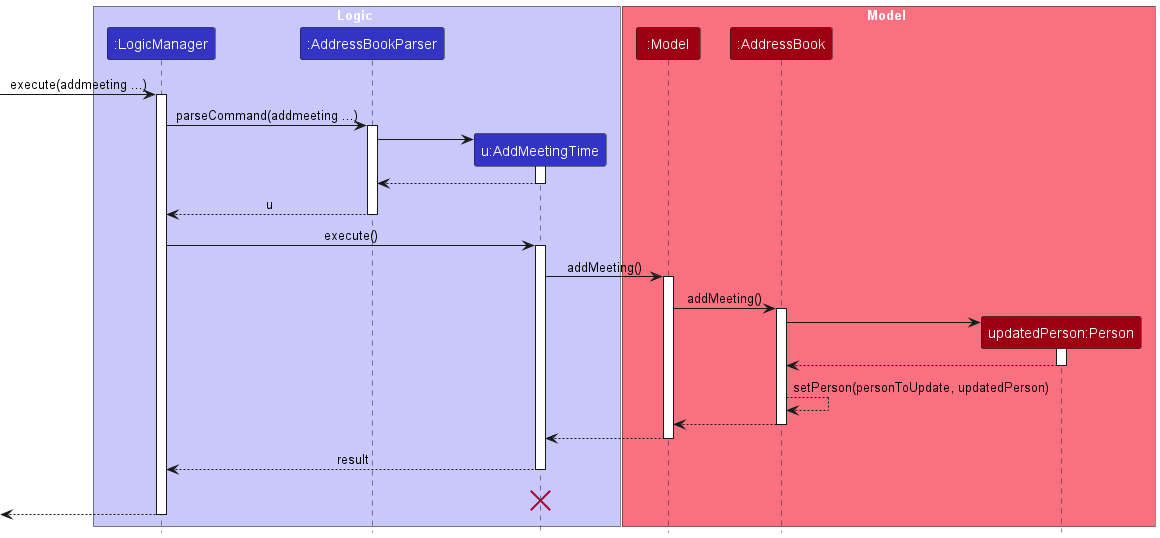
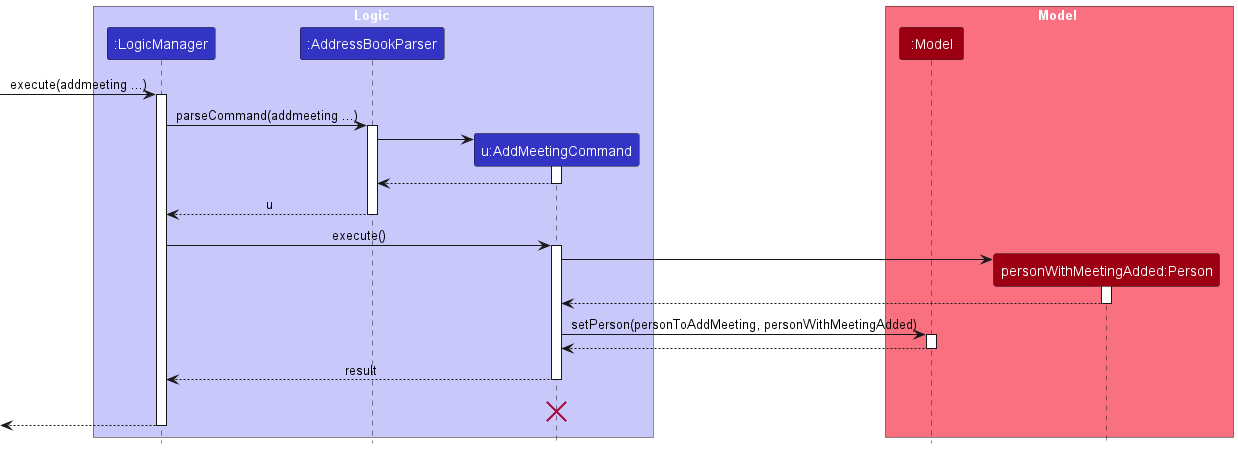
Update User stories, AddClient/Lead, AddMeetingTime

Changed region(s): [[0.0, 0.0, 1.0, 0.9978]]

diff --git a/docs/DeveloperGuide.md b/docs/DeveloperGuide.md
@@ -168,99 +168,6 @@ Step 3: The user executes a `view 1` command to view the 1st person in the addre
 The following sequence diagram shows how the View Command works:
 <img src="diagrams/ViewSequenceDiagram.png" alt= "ViewSequenceDiagram"/>
 
-### \[Proposed\] Undo/redo feature
-
-#### Proposed Implementation
-
-The proposed undo/redo mechanism is facilitated by `VersionedAddressBook`. It extends `AddressBook` with an undo/redo history, stored internally as an `addressBookStateList` and `currentStatePointer`. Additionally, it implements the following operations:
-
-* `VersionedAddressBook#commit()` — Saves the current address book state in its history.
-* `VersionedAddressBook#undo()` — Restores the previous address book state from its history.
-* `VersionedAddressBook#redo()` — Restores a previously undone address book state from its history.
-
-These operations are exposed in the `Model` interface as `Model#commitAddressBook()`, `Model#undoAddressBook()` and `Model#redoAddressBook()` respectively.
-
-Given below is an example usage scenario and how the undo/redo mechanism behaves at each step.
-
-Step 1. The user launches the application for the first time. The `VersionedAddressBook` will be initialized with the initial address book state, and the `currentStatePointer` pointing to that single address book state.
-
-<img src="diagrams/UndoRedoState0.png" alt="UndoRedoState0" />
-
-Step 2. The user executes `delete 5` command to delete the 5th person in the address book. The `delete` command calls `Model#commitAddressBook()`, causing the modified state of the address book after the `delete 5` command executes to be saved in the `addressBookStateList`, and the `currentStatePointer` is shifted to the newly inserted address book state.
-
-<img src="diagrams/UndoRedoState1.png" alt="UndoRedoState1" />
-
-Step 3. The user executes `add n/David …` to add a new person. The `add` command also calls `Model#commitAddressBook()`, causing another modified address book state to be saved into the `addressBookStateList`.
-
-<img src="diagrams/UndoRedoState2.png" alt="UndoRedoState2" />
-
-<box type="info" seamless>
-
-**Note:** If a command fails its execution, it will not call `Model#commitAddressBook()`, so the address book state will not be saved into the `addressBookStateList`.
-
-</box>
-
-Step 4. The user now decides that adding the person was a mistake, and decides to undo that action by executing the `undo` command. The `undo` command will call `Model#undoAddressBook()`, which will shift the `currentStatePointer` once to the left, pointing it to the previous address book state, and restores the address book to that state.
-
-<img src="diagrams/UndoRedoState3.png" alt="UndoRedoState3" />
-
-
-<box type="info" seamless>
-
-**Note:** If the `currentStatePointer` is at index 0, pointing to the initial AddressBook state, then there are no previous AddressBook states to restore. The `undo` command uses `Model#canUndoAddressBook()` to check if this is the case. If so, it will return an error to the user rather
-than attempting to perform the undo.
-
-</box>
-
-The following sequence diagram shows how the undo operation works:
-
-<img src="diagrams/UndoSequenceDiagram.png" alt="UndoSequenceDiagram" />
-
-<box type="info" seamless>
-
-**Note:** The lifeline for `UndoCommand` should end at the destroy marker (X) but due to a limitation of PlantUML, the lifeline reaches the end of diagram.
-
-</box>
-
-The `redo` command does the opposite — it calls `Model#redoAddressBook()`, which shifts the `currentStatePointer` once to the right, pointing to the previously undone state, and restores the address book to that state.
-
-<box type="info" seamless>
-
-**Note:** If the `currentStatePointer` is at index `addressBookStateList.size() - 1`, pointing to the latest address book state, then there are no undone AddressBook states to restore. The `redo` command uses `Model#canRedoAddressBook()` to check if this is the case. If so, it will return an error to the user rather than attempting to perform the redo.
-
-</box>
-
-Step 5. The user then decides to execute the command `list`. Commands that do not modify the address book, such as `list`, will usually not call `Model#commitAddressBook()`, `Model#undoAddressBook()` or `Model#redoAddressBook()`. Thus, the `addressBookStateList` remains unchanged.
-
-<img src="diagrams/UndoRedoState4.png" alt="UndoRedoState4" />
-
-Step 6. The user executes `clear`, which calls `Model#commitAddressBook()`. Since the `currentStatePointer` is not pointing at the end of the `addressBookStateList`, all address book states after the `currentStatePointer` will be purged. Reason: It no longer makes sense to redo the `add n/David …` command. This is the behavior that most modern desktop applications follow.
-
-<img src="diagrams/UndoRedoState5.png" alt="UndoRedoState5" />
-
-The following activity diagram summarizes what happens when a user executes a new command:
-
-<img src="diagrams/CommitActivityDiagram.png" width="250" />
-
-#### Design considerations:
-
-**Aspect: How undo & redo executes:**
-
-* **Alternative 1 (current choice):** Saves the entire address book.
-    * Pros: Easy to implement.
-    * Cons: May have performance issues in terms of memory usage.
-
-* **Alternative 2:** Individual command knows how to undo/redo by
-  itself.
-    * Pros: Will use less memory (e.g. for `delete`, just save the person being deleted).
-    * Cons: We must ensure that the implementation of each individual command are correct.
-
-_{more aspects and alternatives to be added}_
-
-### \[Proposed\] Data archiving
-
-_{Explain here how the data archiving feature will be implemented}_
-
 ### Addclient/Addlead feature
 
 #### Implementation
@@ -269,7 +176,7 @@ The `Client` and `Lead` model extends from `Person`.
 The `Client` and `Lead` model has a name, address, phone number, email field which is compulsory, as well as a meeting time and tags field which are optional.
 The `Lead` model has an additional compulsory field called Key Milestone.
 
-Given below is an example usage scenario and how addclient and addlead behaves at each step.
+Given below is an example usage scenario and how `addclient` and `addlead` behaves at each step.
 
 Step 1. The user launches the application for the first time. The `AddressBook` will be initialized.
 
@@ -278,43 +185,50 @@ Step 1. The user launches the application for the first time. The `AddressBook` 
     <p>Before any commands</p>
 </div>
 
-Step 2a - addclient. The user executes `addclient n/John Doe...` command add a person named John Doe into the AddressBook. The `addclient` command calls `Model#addClient()`, causing the address book to be updated.
+Step 2a - `addclient`. The user executes `addclient n/John Doe...` command add a person named John Doe into the AddressBook. The `addclient` command calls `Model#addClient()`, causing the address book to be updated.
 
 <div align="center">
-    <img src="images/addclient.png" alt="after addclient command" width="500" />
+    <img src="images/afterusingaddclient.png" alt="after addclient command" width="500" />
     <p>After addclient command</p>
 </div>
 
-Step 2b - addlead. The user executes `addlead n/John Doe...` command add a person named John Doe into the AddressBook. The `addlead` command calls `Model#addLead()`, causing the address book to be updated.
+Step 2b - `addlead`. The user executes `addlead n/John Doe...` command add a person named John Doe into the AddressBook. The `addlead` command calls `Model#addLead()`, causing the address book to be updated.
 
 <div align="center">
-    <img src="images/addlead.png" alt="after addlead command" width="500" />
+    <img src="images/afterusingaddlead.png" alt="after addlead command" width="500" />
     <p>After addlead command</p>
 </div>
 
-The following sequence diagram shows how the addclient operation works (Note that `addlead` works in the same way but calls `Model#addLead()` instead):
+The following sequence diagram shows how the `addclient` operation works (Note that `addlead` works in the same way but calls `Model#addLead()` instead):
+<div align="center">
+    <img src="diagrams/AddClientSequenceDiagram.png" width="500"/>
+</div>
 
-<img src="diagrams/AddClientSequenceDiagram.png" width="500" />
-
-The following activity diagram shows what happens when a user executes a new command:
-
-<img src="diagrams/AddClientActivityDiagram.png" width="500" />
+The following activity diagram shows what happens when a user executes a new `addclient` command:
+<div align="center">
+    <img src="diagrams/AddClientActivityDiagram.png" width="500"/>
+</div>
 
 ### Add Meeting Time feature
 
 #### Implementation
 
-The user can specify a meeting time when executing `addclient` or `addlead` command with the `m/` flag.
-Alternatively, the user can enter the `addmeeting` command to add a meeting time to an existing client or lead.
-The `addmeeting` command takes in the index of the client or lead, and the meeting time in `dd/MM/yyyy HH:mm` format, e.g. `24/10/2023 12:00`.
+The user can specify a meeting time when executing `addclient` or `addlead` command with the `m/` flag or enter the `addmeeting` command to add a meeting time to an existing client or lead.
+The `addmeeting` command takes in the index of the client or lead, and the meeting time in `dd/MM/yyyy HH:mm` format (e.g. `addmeeting 1 12/12/2023 12:00`).
+The `AddMeetingCommand` class facilitates this by copying the person (client/lead) based on the index given, and creates a new person with the meeting time added.
+The `AddMeetingCommand` class then calls `Model#setPerson()` to update the address book with the new person.
 
-The following sequence diagram shows how the addMeeting operation works:
+The following sequence diagram shows how the `addmeeting ...` operation works:
 
-<img src="diagrams/AddMeetingTimeSequenceDiagram.png" width="500" />
+<div align="center">
+    <img src="diagrams/AddMeetingTimeSequenceDiagram.png" width="700"/>
+</div>
 
-The following activity diagram shows what happens when a user executes the addMeeting operation:
+The following activity diagram shows the workflow of the execution of the `addmeeting ...` command:
 
-<img src="diagrams/AddMeetingTimeActivityDiagram.png" width="500" />
+<div align="center">
+    <img src="diagrams/AddMeetingTimeActivityDiagram.png" width="700" />
+</div>
 
 ### \[Proposed\] Sort Meeting Time feature
 
@@ -401,15 +315,20 @@ Priorities: High (must have) - `* * *`, Medium (nice to have) - `* *`, Low (unli
 
 ### General Information
 
-| Priority | As a student financial advisor, | I want to …                                    | So that I can…                                                                                        |
-|----------|---------------------------------|-------------------------------------------------|--------------------------------------------------------------------------------------------------------|
-| `* * *`  | student financial advisor       | view all my clients and leads                   | recall and focus on all my clients and leads                                                           |
-| `* * *`  | student financial advisor       | sort meeting times with clients and leads       | see my upcoming meetings in chronological order to better plan my time                                 |
-| `* *`    | student financial advisor       | upload and store important information securely | easily access them whenever i launch D.A.V.E.                                                          |
-| `* *`    | student financial advisor       | save details automatically while using the app  | focus on updating D.A.V.E. with information of my clients and leads without worrying about saving data |
-| `*`      | student financial advisor       | modify my authentication details regularly      | ensure my account is safe and secure                                                                   |
+| Priority | As a student financial advisor, | I want to …                                   | So that I can…                                                                                        |
+|----------|---------------------------------|------------------------------------------------|--------------------------------------------------------------------------------------------------------|
+| `* * *`  | student financial advisor       | view all my clients and leads                  | recall and focus on all my clients and leads                                                           |
+| `* * *`  | student financial advisor       | sort meeting times with clients and leads      | see my upcoming meetings in chronological order to better plan my time                                 |
+| `* *`    | student financial advisor       | save details automatically while using the app | focus on updating D.A.V.E. with information of my clients and leads without worrying about saving data |
+
 
 ### Planned Enhancement
+| Priority | As a student financial advisor, | I want to …                                   | So that I can…                                                                        |
+|----------|---------------------------------|------------------------------------------------|----------------------------------------------------------------------------------------|
+| `* *`    | student financial advisor       | add a policy for my clients                    | keep track of their policies and access them readily                                   |
+| `* *`    | student financial advisor       | edit the details of my clients' policies       | update changes in information of my clients' policies                                  |
+| `* *`    | student financial advisor       | delete a policy for my clients                 | remove policies that my clients no longer have to keep my clients' policies up-to-date |
+| `*`      | student financial advisor       | see the expiry of my clients' policies         | keep track of my clients' policies and follow up with them when necessary              |
 
 ### Use cases
 
